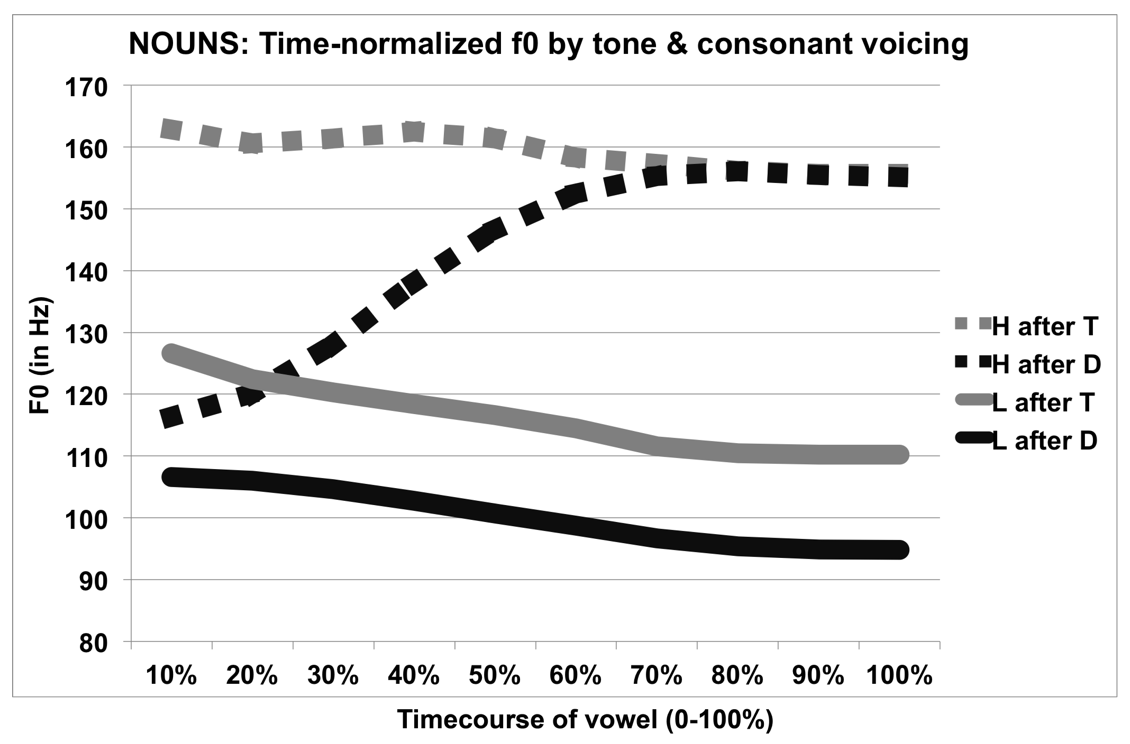
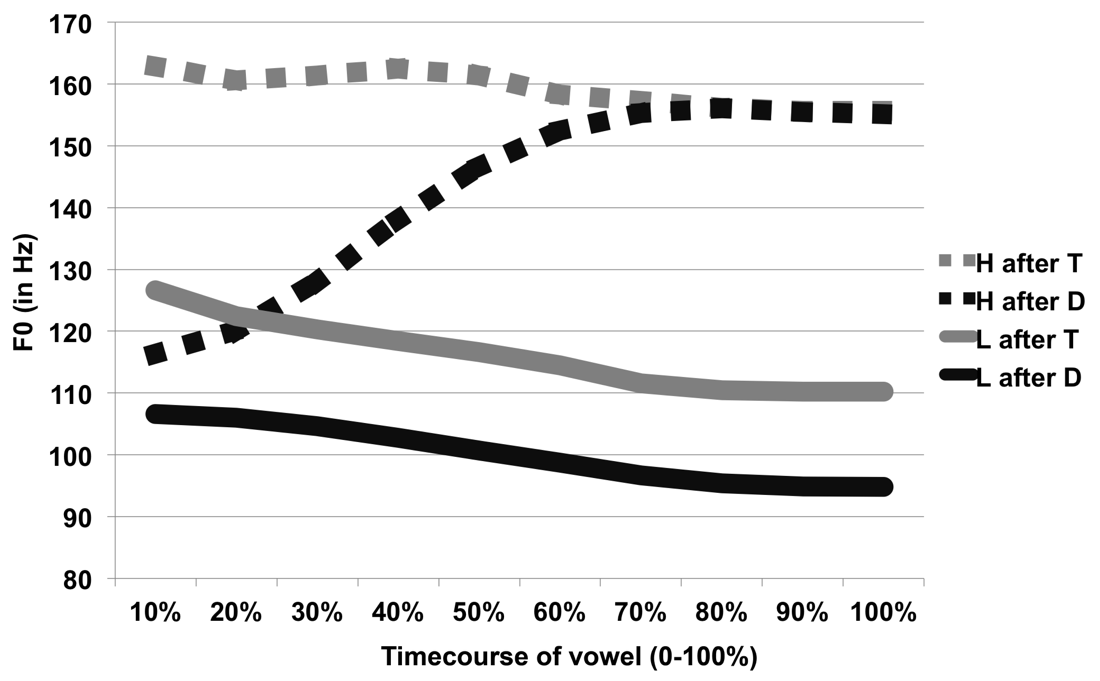
Lotven ready

Changed region(s): [[0.0, 0.0, 0.9891, 0.9868], [0.9582, 0.9251, 0.9891, 0.9559]]

diff --git a/chapters/Lotven.tex b/chapters/Lotven.tex
@@ -1,4 +1,4 @@
-\documentclass[output=paper,newtxmath,modfonts,nonflat,draftmode]{langsci/langscibook} 
+\documentclass[output=paper,newtxmath,modfonts,nonflat,hidelinks]{langsci/langscibook} 
 
 \author{Samson Lotven\affiliation{Indiana University Bloomington}\lastand Kelly Berkson\affiliation{Indiana University Bloomington} }
 
@@ -57,11 +57,14 @@ The remainder of the paper reads as follows. \sectref{sec:lotven:2} provides rel
 Previous research indicates that voiced obstruents—and sonorants, albeit less commonly—can act as depressor consonants (\citealt{Ohala1973}; \citealt{Bradshaw1999}; \citealt{Tang2008}), meaning that they can trigger lowering (or depression) of \isi{f0} in adjacent vowels. Relevant for this discussion is the vowel immediately following a \isi{depressor consonant} onset. Depressor effects fall into two broad categories. F0 \isi{register} effects—schematized below in \figref{sec:lotven:1}a—are those that perseverate across the entire vowel, as in \ili{Japanese} \citep{Oglesbee2008}. F0 contour effects, schematized in \figref{sec:lotven:1}b, are localized to the left edge of the vowel, following the consonant constriction release. This results in a rising \isi{pitch pattern}, as in \ili{English} (\citealt{Lea1973}; \citealt{Oglesbee2008}). 
 
 
-\begin{figure} 
-\todo[inline]{Crop file and use subfigure}
-
-\includegraphics[width=\textwidth]{figures/fig-lotven-1.png}  
-\caption{\label{fig:lotven:samson:1} Schematized representation of f0 register depressor effect (1a, in the left panel) and f0 contour depressor effect (1b, in the right panel). T represents a voiceless obstruent and D represents a voiced obstruent}
+\begin{figure}  
+\subfigure[Register depressor effect]{
+\includegraphics[width=.45\textwidth]{figures/fig-lotven-1a.png}  
+}
+\subfigure[Contour depressor effect]{
+\includegraphics[width=.45\textwidth]{figures/fig-lotven-1b.png}  
+}
+\caption{\label{fig:lotven:samson:1} Schematized representations of f0   depressor effects. T represents a voiceless obstruent and D represents a voiced obstruent}
 \end{figure}
 
 
@@ -89,6 +92,7 @@ These distributional restrictions hold true synchronically, but it is also worth
 
 \ili{Ewe} is known for its typologically irregular treatment of sonorants as depressor consonants in some phonological and morphophonological contexts, earning it a slot in \posscitet{Bradshaw1999} study of depressor effects under the section detailing “problem cases”. Bradshaw analyzes the depressor effect as an interaction between L \isi{tone} and the privative feature [L/voice]. For Bradshaw, this feature is generally a property of voiced obstruents and is underspecified for sonorants, but she suggests that languages like Ewe reveal the [L/voice] feature specification in sonorants may vary from language to language \citep[169-170]{Bradshaw1999}. As discussed in \sectref{sec:lotven:4}, \ili{Gengbe} does exhibit interactions between sonorants and a rising \isi{pitch pattern}, like \ili{Ewe}. Although the details of the pattern differ from \ili{Ewe}, under Bradshaw's analysis this would suggest that sonorants in \ili{Gengbe}, as in \ili{Ewe}, are specified for [L/voice]. Note that another element of Bradshaw’s analysis is that the feature [L/voice] can render an onset transparent to L \isi{tone} spreading and may also serve as the source for the L \isi{tone} that spreads onto neighboring vowels. This is not investigated here but, given the other similarities between \ili{Ewe} and \ili{Gengbe}, it should prove valuable to investigate in the future.
 
+\largerpage
 In this paper we use the term “\isi{depressor consonant}” as a cover term for the onsets that participate in the various pitch-lowering processes found in \ili{Gengbe}—that is, for both voiced obstruents and for sonorants, in instances where they cause either \isi{register} or contour effects. Some of the effects outlined may be indicative of a phonologization process—in particular, those contexts where an underlying /H/ \isi{tone} mandatorily surfaces as [LH]. These should prove valuable in future discussion of how phonetic effects may become phonologized, but the goal here is to present a clear overview of the depressor effects found in nominal and verbal domains. We turn now to a review of methods and aims.
 
 \section{Methods and aims}\label{sec:lotven:3}
@@ -134,9 +138,31 @@ There are several things to note about the phonetic realization of H and LH as i
 
 
 \begin{figure} 
-\todo[inline]{use pgf barplot}
-\includegraphics[width=\textwidth]{figures/Lotven-img3.png}
-\caption{\label{fig:lotven:3} Average duration of vowels after voiced (black) and voiceless (gray) obstruents in nouns. Underlying H is longer after voiced than after voiceless obstruents. “T” represents a voiceless obstruent and “D” represents a voiced obstruent.}
+% \todo[inline]{use pgf barplot}
+% \includegraphics[width=\textwidth]{figures/Lotven-img3.png}
+    \begin{tikzpicture}
+        \begin{axis}[  
+            ylabel={},
+            xlabel={Vowel duration (in ms)}, 
+            symbolic y coords={/H/,/L/},
+            ytick=data,
+            axis lines*=left,  
+            xmin=0,
+            xbar, 
+            nodes near coords,
+            nodes near coords align={horizontal},
+            axis on top,    
+            reverse legend,            
+            enlarge y limits  = .4, 
+            height=.3\textwidth,
+            width = \textwidth
+        ]    
+        \addplot+[lsDarkBlue!80!black,fill=lsDarkBlue] coordinates {(232,/H/) (158,/L/)};
+        \addplot+[lsMidBlue!80!black,fill=lsMidBlue] coordinates {(168,/H/) (152,/L/)};
+        \legend{after D, after T}
+        \end{axis}
+    \end{tikzpicture}
+\caption{\label{fig:lotven:3} Average duration of vowels after voiced (dark) and voiceless (light) obstruents in nouns. Underlying H is longer after voiced than after voiceless obstruents. “T” represents a voiceless obstruent and “D” represents a voiced obstruent.}
 \end{figure}
 
 
@@ -145,16 +171,37 @@ We can also look at the time-normalized \isi{f0} tracks of these vowels, shown i
 Means and standard deviations are included in \tabref{tab:lotven:2}; commentary follows. The L \isi{tone} difference illustrated in \figref{sec:lotven:4} conforms to \posscitet{Ansre1961} analysis of \ili{Ewe}, which claims that there are two realizations of the Non-High toneme: Low after a \isi{voiced obstruent} and Mid after a voiceless obstruent. But is this a phonetic effect as discussed above for \ili{Japanese} \citep{Oglesbee2008} or is this a phonological effect as Ansre proposes for \ili{Ewe}? Unlike \ili{Ewe}, neither previous \ili{Gengbe} literature nor our elicitation has provided evidence for Mid tones that are not phonologically conditioned, nor have we discovered lexical Mid tones or floating morphological Mid tones in \ili{Gengbe}. The appearance of the phonetically lower Low after a \isi{voiced obstruent}, in other words, is regular and predictable in \ili{Gengbe}, whereas that is not always the case in \ili{Ewe}. For the time being, then, we analyze this \isi{register} lowering as a purely phonetic effect.
 
 
-\begin{figure}
-\todo[inline]{crop files to remove redundant information}
+\begin{figure} 
 	\includegraphics[width=\textwidth]{figures/fig-lotven-4.png}
 	\caption{\label{fig:lotven:4} Time-normalized f0 tracks of High (dotted lines) and Low (solid lines) tones after voiced (black lines) and voiceless (gray lines) obstruents in nouns. H follows voiceless obstruents and LH follows voiced obstruents.}
 \end{figure}
 
 
-\begin{table} 
-\todo[inline]{redo as table}
-	\includegraphics[width=\textwidth]{figures/tab-lotven-2.png}
+\begin{table}  
+\fittable{
+\begin{tabular}{l l rrrrrrrrrr}
+\lsptoprule
+          & & 10\%& 20\%& 30\%& 40\%& 50\%& 60\%& 70\%& 80\%& 90\%& 100\%\\
+\midrule           
+H after T & M  & 170 & 167 & 167 & 167 & 166 & 163 & 161 & 160 & 160 & 160 \\
+          & SD & 10 & 11 & 14 & 18 & 19 & 18 & 17 & 17 & 17 & 17 \\
+          
+\tablevspace
+H after D & M  & 118 & 121 & 128 & 137 & 145 & 151 & 153 & 154 & 154 & 154 \\
+          & SD &  20 & 19 & 19 & 19 & 18 & 16 & 16 & 17 & 18 & 18 \\
+
+\tablevspace
+L after T & M  & 131 & 127 & 125 & 123 & 121 & 119 & 115& 114 & 114 & 114 \\
+          & SD & 27 & 32 & 37 & 41 & 44 & 42 & 34 & 33 & 33 & 33 \\
+
+\tablevspace
+L after D & M  & 108 & 108 & 106 & 104 & 102 & 100 & 99 & 98 & 97 & 97 \\
+          & SD & 6 & 7 &  8 & 8 & 8 & 8 & 9 & 10 & 11 & 11\\
+\lspbottomrule
+\end{tabular}
+}
+
+% 	\includegraphics[width=\textwidth]{figures/tab-lotven-2.png}
 	\caption{Means and standard deviations (in Hz) for the ten timepoints included in time-normalized f0 tracks shown in \figref{fig:lotven:4}.}
 	\label{tab:lotven:2}
 \end{table}
@@ -163,9 +210,8 @@ Means and standard deviations are included in \tabref{tab:lotven:2}; commentary 
 As a side note, \isi{f0} \isi{register} lowering is not limited to L \isi{tone} contexts. As discussed more thoroughly in \figref{sec:lotven:4.2}, there are contexts in \ili{Gengbe} where High \isi{tone} is realized as H rather than as LH after voiced obstruents. In these instances, shown in \figref{sec:lotven:5}, we again see what looks like \isi{register} lowering of \isi{f0}. High \isi{tone} is realized with higher \isi{f0} after voiceless obstruents than after voiced obstruents. Note here that the pitch range for H \isi{tone} in \figref{sec:lotven:5} is comparable to the pitch range for L \isi{tone} in \figref{sec:lotven:4} above, but this is most likely a result of final lowering—a topic to be investigated in future work. 
 
   
-\begin{figure}
-\todo[inline]{crop files to remove redundant information}
-\includegraphics[width=\textwidth]{figures/Lotven-img6.png}
+\begin{figure} 
+\includegraphics[height=.4\textheight]{figures/Lotven-img6.png}
 \caption{\label{fig:lotven:5} Time-normalized f0 tracks of level High tones after voiced (black) and voiceless (gray) obstruents in verbs. H is lower following voiced obstruents.}
 \end{figure}
 
@@ -310,7 +356,7 @@ The same observations made in (\ref{ex:lotven:3}–\ref{ex:lotven:4}) hold for o
 
 \citet{Bradshaw1999} analyzes the singular imperative in \ili{Ewe} as formed by a prefixed L \isi{tone} morpheme that docks with the vowel only when the onset is voiced. Since our data suggests the trigger of LH is present in citation form as well as the singular imperative, we describe the phenomenon in terms of an initial syntactic boundary (possibly an initial L boundary \isi{tone}) rather than a morphological affix. It is possible still that the L \isi{tone} is a morphological affix, although with the two situations described (as well as reduplication data below), we posit a single positional explanation rather than three independent L \isi{tone} morphemes. 
 
-When a verb is reduplicated, the logical object, normally following the bare verb, is moved to precede the reduplicated verb. Where there is such pre-verbal information, there is no depressor effect, as in \REF{ex:lotven:7}, and where there is no preverbal material, we again see the depressor effect, as in \REF{ex:lotven:8}. Note that sonorants are still considered depressors here despite the fact that in (\ref{ex:lotven:7}-\ref{ex:lotven:8}) we are deriving nouns from verbal roots. If we are to assume that category-changing derivation processes are done in the lexicon, this introduces an as-yet unsolved mystery as to the nature of the relevant property that determines which set of onsets counts as depressors. For now we can tentatively define the distinction as derivation from underlying nominal or verbal roots. 
+When a verb is reduplicated, the logical object, normally following the bare verb, is moved to precede the reduplicated verb. Where there is such pre-verbal information, there is no depressor effect, as in \REF{ex:lotven:7}, and where there is no preverbal material, we again see the depressor effect, as in \REF{ex:lotven:8}. Note that sonorants are still considered depressors here despite the fact that in (\ref{ex:lotven:7}--\ref{ex:lotven:8}) we are deriving nouns from verbal roots. If we are to assume that category-changing derivation processes are done in the lexicon, this introduces an as-yet unsolved mystery as to the nature of the relevant property that determines which set of onsets counts as depressors. For now we can tentatively define the distinction as derivation from underlying nominal or verbal roots. 
 \\
 \ea\label{ex:lotven:7}Reduplication (pre-posed object)
 \ea\label{ex:lotven:7a}
@@ -347,7 +393,7 @@ When a verb is reduplicated, the logical object, normally following the bare ver
 
 We analyze this process in terms of syntax rather than morphology or phonology for the following reasons. As noted before, we do not posit tonal morphology that affects these three processes independently, although we leave open the possibility. We also do not see a clear path to a phonological explanation in terms of (prosodic) word-initial position. If we were to explore this possibility, we would need to describe the verbs in \REF{ex:lotven:3}, \REF{ex:lotven:5}, and \REF{ex:lotven:7} as non-initial. Pronouns in \REF{ex:lotven:3} and \REF{ex:lotven:5} can — and have in the case of \ili{Ewe} \citep{Duthie1996} — been analyzed as clitics, however, full NP subjects also fail to trigger LH \isi{tone} in following predicates, for example \textit{ènɔ\`{} ã\`{}  bé} ‘mother said,’ suggesting that the right environment for LH \isi{tone} in verbs has to do with phrase position (possibly utterance-initial position) rather than word position. As of yet, we leave the term ‘phrase-initial position’ purposefully vague. The importance of syntactic position in \isi{tone} rules is well established \citep{Snider2014}, but we leave the definition of such positioning to future syntactic work.
 
-The data in (\ref{ex:lotven:3}–\ref{ex:lotven:8}) indicate that depressor consonants in the verbal domain include voiced obstruents and sonorants and that the phrase-initial position, rather than a preceding L \isi{tone} vowel, is the trigger for LH \isi{tone}. The data in (\ref{ex:lotven:9}-\ref{ex:lotven:10}) present verbs with initial consonant clusters, using the citation form as illustration, though reduplication and imperative data were also investigated. \REF{ex:lotven:9} reveals that consonant-\isi{liquid} clusters act as depressors, regardless of the identity of C\textsubscript{1}; \REF{ex:lotven:10} reveals that consonant-glide clusters do not. It is again valuable to note that liquids and glides are the only consonants that can serve as C\textsubscript{2} in a consonant cluster in \ili{Gengbe}. The crucial data points here are (\ref{ex:lotven:9}a) where a voiceless onset-\isi{liquid} cluster shows a depressor effect and (\ref{ex:lotven:10}a) where a voiceless onset-glide cluster does not. We resist the urge here to speculate about \isi{syllable structure} based on these verbal data since the difference between C\textsubscript{2} liquids and glides in the verbal domain does not hold in the nominal domain, as illustrated previously in \tabref{tab:lotven:4} (m–n).
+The data in (\ref{ex:lotven:3}–\ref{ex:lotven:8}) indicate that depressor consonants in the verbal domain include voiced obstruents and sonorants and that the phrase-initial position, rather than a preceding L \isi{tone} vowel, is the trigger for LH \isi{tone}. The data in (\ref{ex:lotven:9}--\ref{ex:lotven:10}) present verbs with initial consonant clusters, using the citation form as illustration, though reduplication and imperative data were also investigated. \REF{ex:lotven:9} reveals that consonant-\isi{liquid} clusters act as depressors, regardless of the identity of C\textsubscript{1}; \REF{ex:lotven:10} reveals that consonant-glide clusters do not. It is again valuable to note that liquids and glides are the only consonants that can serve as C\textsubscript{2} in a consonant cluster in \ili{Gengbe}. The crucial data points here are (\ref{ex:lotven:9}a) where a voiceless onset-\isi{liquid} cluster shows a depressor effect and (\ref{ex:lotven:10}a) where a voiceless onset-glide cluster does not. We resist the urge here to speculate about \isi{syllable structure} based on these verbal data since the difference between C\textsubscript{2} liquids and glides in the verbal domain does not hold in the nominal domain, as illustrated previously in \tabref{tab:lotven:4} (m–n).
 
 \ea\label{ex:lotven:9}Consonant-\isi{liquid} clusters in \ili{Gengbe} Verbs
 \ea\label{ex:lotven:9a}
@@ -415,9 +461,11 @@ Although this study is preliminary and there is much work to be done on \ili{Gen
 %Xu, Yi. 2013. ProsodyPro — A Tool for Large-scale Systematic Prosody Analysis. In Proceedings of Tools and Resources for the Analysis of Speech Prosody (TRASP 2013). Aix-en-Provence, France. 7-10.
 
 \section*{Abbreviations}
-\begin{tabularx}{.55\textwidth}{ll}
+\begin{tabularx}{.45\textwidth}{ll}
 1\textsc{sg} & 1st Person Singular Subject \\
 2\textsc{pl} & 2nd Person Plural Subject\\
+\end{tabularx}
+\begin{tabularx}{.45\textwidth}{ll}
 \textsc{def} & Definite Determiner\\
 \textsc{nom} & Nominalizer \\
 \end{tabularx}

diff --git a/localpackages.tex b/localpackages.tex
@@ -110,3 +110,5 @@
 %Jones
 %\usepackage{textcomp}
 \usepackage{tipa}
+
+\usepackage{pgfplots}
